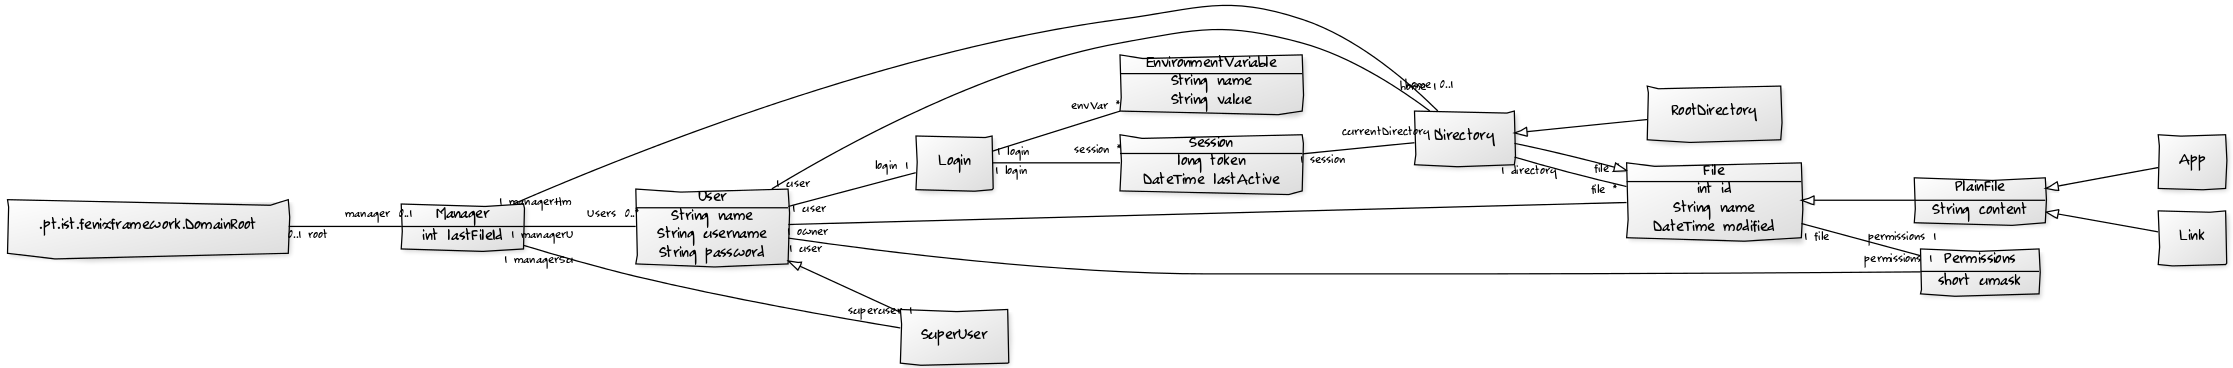
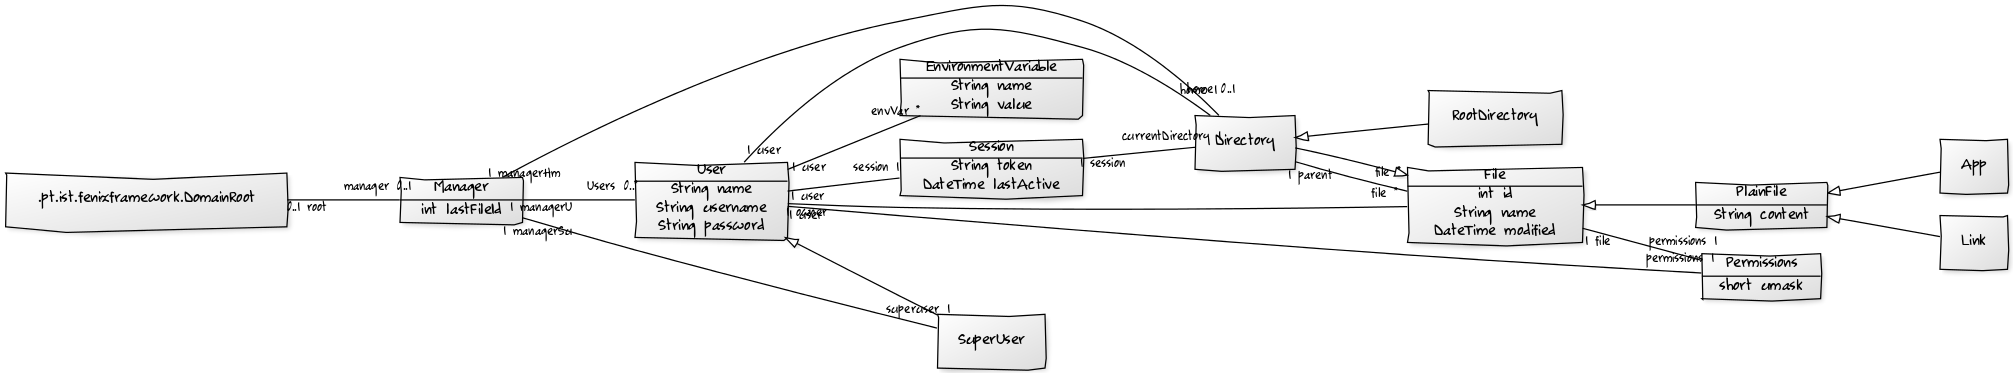
parent variable name has a decent name now, delete login entity from dml to make the problem more simple close #63 close #64

diff --git a/src/main/java/pt/tecnico/myDrive/domain/Session.java b/src/main/java/pt/tecnico/myDrive/domain/Session.java
@@ -1,9 +1,46 @@
 package pt.tecnico.myDrive.domain;
 
+import org.joda.time.DateTime;
+import org.joda.time.DateTimeZone;
+
+import java.math.BigInteger;
+import java.util.Random;
+
 public class Session extends Session_Base {
-    
+
+    /**
+     * Default constructor.
+     */
     public Session() {
         super();
+        this.setLastActive(new DateTime(DateTimeZone.UTC));
     }
-    
+
+    /**
+     * Alternate constructor to create new session.
+     * @param user (User) receives a valid Login Instance.
+     */
+    public Session(User user) {
+        this();
+        setUser(user);
+        this.setToken(user.getUsername()+ new BigInteger(64, new Random()).longValue());
+    }
+
+    /**
+     * Method to check if a Session is Expired.
+     * @return boolean returns true if is expired false if not.
+     */
+    public boolean hasExpired() {
+        return !this.getLastActive().plusHours(2).isAfterNow();
+    }
+
+    /**
+     * @// FIXME: 19/03/16 IMPLEMENT ME PLEASE
+     */
+    public void remove () {
+
+    }
+
+
+
 }

diff --git a/src/main/java/pt/tecnico/myDrive/domain/User.java b/src/main/java/pt/tecnico/myDrive/domain/User.java
@@ -111,14 +111,14 @@ public class User extends User_Base {
      */
     public Link createLink(File file, String name) {
         Manager m = Manager.getInstance();
-        File f = file.getDirectory();
+        File f = file.getParent();
         String l = "";
         while (f != null) {
-            if (f.getDirectory() != null)
+            if (f.getParent() != null)
                 l = f.getName()+ "/" + l;
             else
                 l = f.getName() + l;
-            f = f.getDirectory();
+            f = f.getParent();
         }
         return new Link (name, file, l + file.getName(), m);
     }

diff --git a/src/main/java/pt/tecnico/myDrive/domain/File.java b/src/main/java/pt/tecnico/myDrive/domain/File.java
@@ -170,7 +170,7 @@ public abstract class File extends File_Base implements IElementXml {
     public void remove() {
         setOwner(null);
         setPermissions(null);
-        setDirectory(null);
+        setParent(null);
         deleteDomainObject();
     }
 
